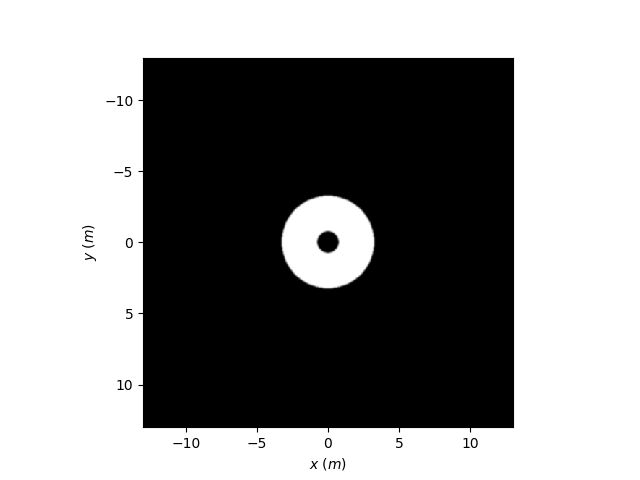
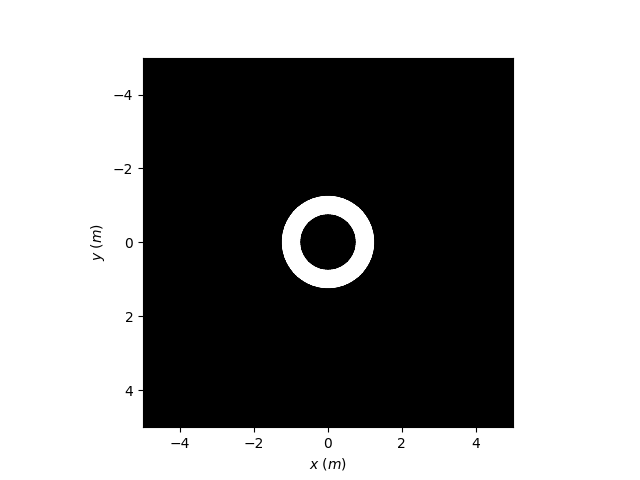
Fixed dirtypupil and toggled turbulence

diff --git a/src/project.py b/src/project.py
@@ -28,12 +28,14 @@ diameter = 6.5
 
 # DIAMETERS ARE IN METERS
 pupil  = SimplePupilFunction(diameter=diameter, samples=N_samples, padscale=ps)
-dirty  = DirtySimplePupilFunction(diameter=diameter, samples=N_samples, padscale=ps)
+dirty  = DirtySimplePupilFunction(diameter=diameter, samples=N_samples, padscale=ps, pk=ModelPupilFunction.atm_Pk)
 caspup = CassegrainPupilFunction(diameter=diameter, b=1.5, samples=N_samples, padscale=ps)
 dcaspf = DirtyCassegrainPupilFunction(diameter=diameter, b=1.5, samples=N_samples, padscale=ps)
 square = SquarePupilFunction(diameter=diameter, samples=N_samples, padscale=ps)
 model  = ModelPupilFunction(diameter=.250, b=.110, samples=N_samples, padscale=ps)
-gauss  = GaussianRandomField(pupil)
+
+model_turb  = ModelPupilFunction(diameter=.250, b=.110, samples=N_samples, padscale=ps, turbulence=False)
+gauss       = GaussianRandomField(pupil)
 
 #### Memory management ####
 def terminate():
@@ -163,6 +165,9 @@ def plot_gsimplepupil():
 def plot_modelpupil():
     render_pupil(model, k=k_green, color='gray')
 
+def plot_modeltpupil():
+    render_pupil(model_turb, k=k_green, color='gray')
+
 # PSFs
 def plot_simplepsf():
     render_psf(pupil, color='magma')
@@ -181,6 +186,9 @@ def plot_gcassepsf():
 
 def plot_squarepsf():
     render_psf(square)
+
+def plot_modeltpsf():
+    render_psf(model_turb, k=k_green, color='magma')
 
 def plot_modelpsfr():
     render_psf(model, color='magma', k=k_red, limited=False)

diff --git a/src/modelpf.py b/src/modelpf.py
@@ -27,17 +27,20 @@ class ModelPupilFunction(AbstractPupilFunction):
         return pass4
 
     def wFunc(self, x, y):
-        # Init the field
-        if not hasattr(self, 'gaussfield'):
-            self.gaussfield = GaussianRandomField(self)
+        if self.opts['turbulence'] is False:
+            return np.zeros((self.samples, self.samples))
+        else:
+            # Init the field
+            if not hasattr(self, 'gaussfield'):
+                self.gaussfield = GaussianRandomField(self)
 
-        # In case the generated field is not rendered
-        # We want to preserve the same field for a single instance to simulate
-        # a particular mirror. Also good for consistent and comparable images
-        if not hasattr(self, 'renderedField'):
-            self.renderedField = self.gaussfield.randomfield(ModelPupilFunction.atm_Pk(self.gaussfield.KX, self.gaussfield.KY))
+            # In case the generated field is not rendered
+            # We want to preserve the same field for a single instance to simulate
+            # a particular mirror. Also good for consistent and comparable images
+            if not hasattr(self, 'renderedField'):
+                self.renderedField = self.gaussfield.randomfield(ModelPupilFunction.atm_Pk(self.gaussfield.KX, self.gaussfield.KY))
 
-        return self.renderedField
+            return self.renderedField
  
     @staticmethod
     def atm_Pk(kx, ky):

diff --git a/src/simplegausspf.py b/src/simplegausspf.py
@@ -20,6 +20,6 @@ class DirtySimplePupilFunction(SimplePupilFunction):
         # We want to preserve the same field for a single instance to simulate
         # a particular mirror. Also good for consistent and comparable images
         if not hasattr(self, 'renderedField'):
-            self.renderedField = self.gaussfield.randomfield()
+            self.renderedField = self.gaussfield.randomfield(self.opts['pk'])
 
         return self.renderedField
